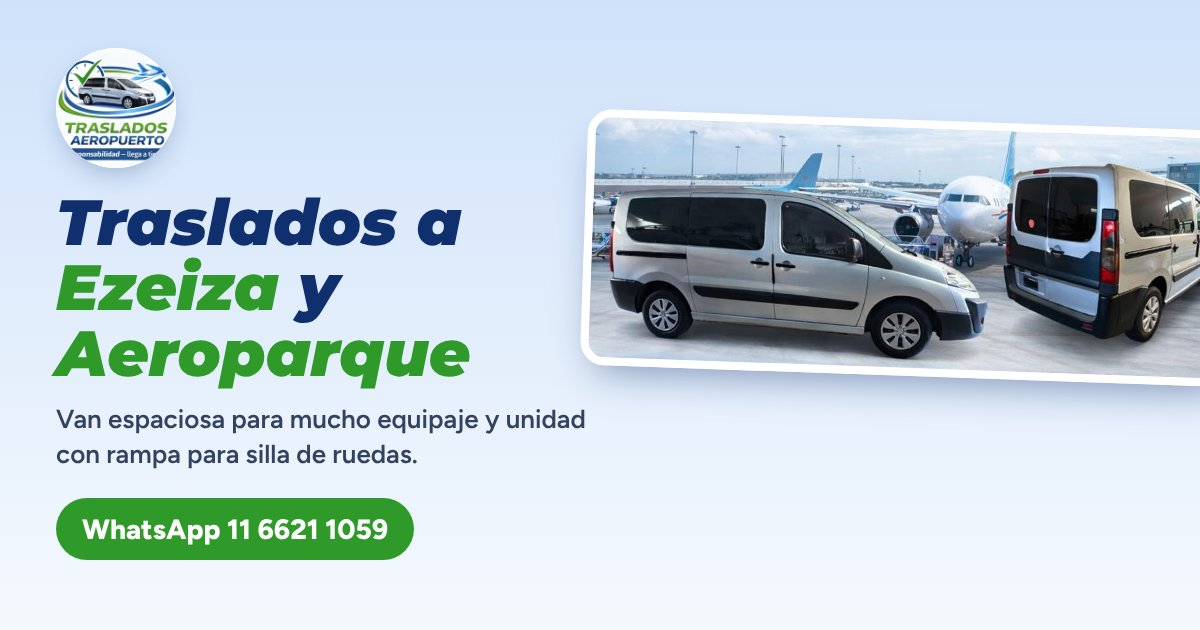
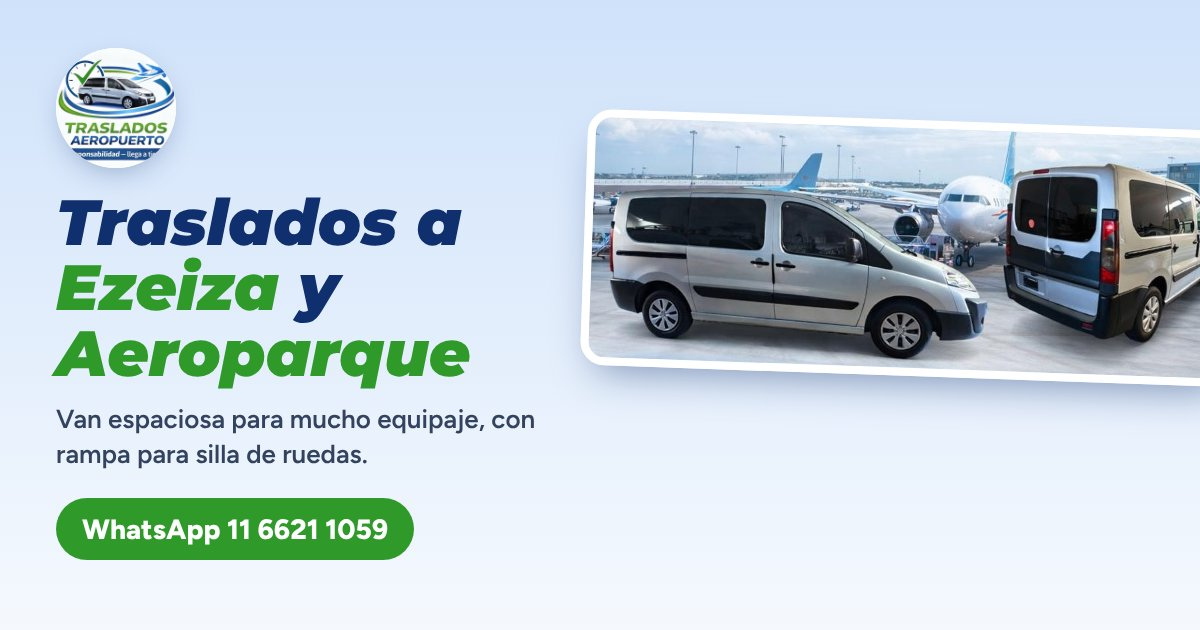
Foto real de valijas y textos para una sola van
La foto nueva de valijas reemplaza la del flyer. Los textos ahora dicen
que hay una sola van, la misma para equipaje y para silla de ruedas.

Claude-Session: https://claude.ai/code/session_015p2YUsdZoEXkofkqS1datB

Changed region(s): [[0.0308, 0.6937, 0.3392, 0.754], [0.4008, 0.6333, 0.4933, 0.6937]]

diff --git a/src/styles/global.css b/src/styles/global.css
@@ -305,4 +305,3 @@ a.sr-only:focus { width: auto; height: auto; clip: auto; z-index: 50; padding: 1
 :root[data-theme="dark"] .credit a { color: #70b5f9; }
 @media (prefers-color-scheme: dark) { :root:not([data-theme="light"]) .credit a { color: #70b5f9; } }
 [id] { scroll-margin-top: 84px; }
-.split-media img.native { max-width: 428px; margin-inline: auto; }
